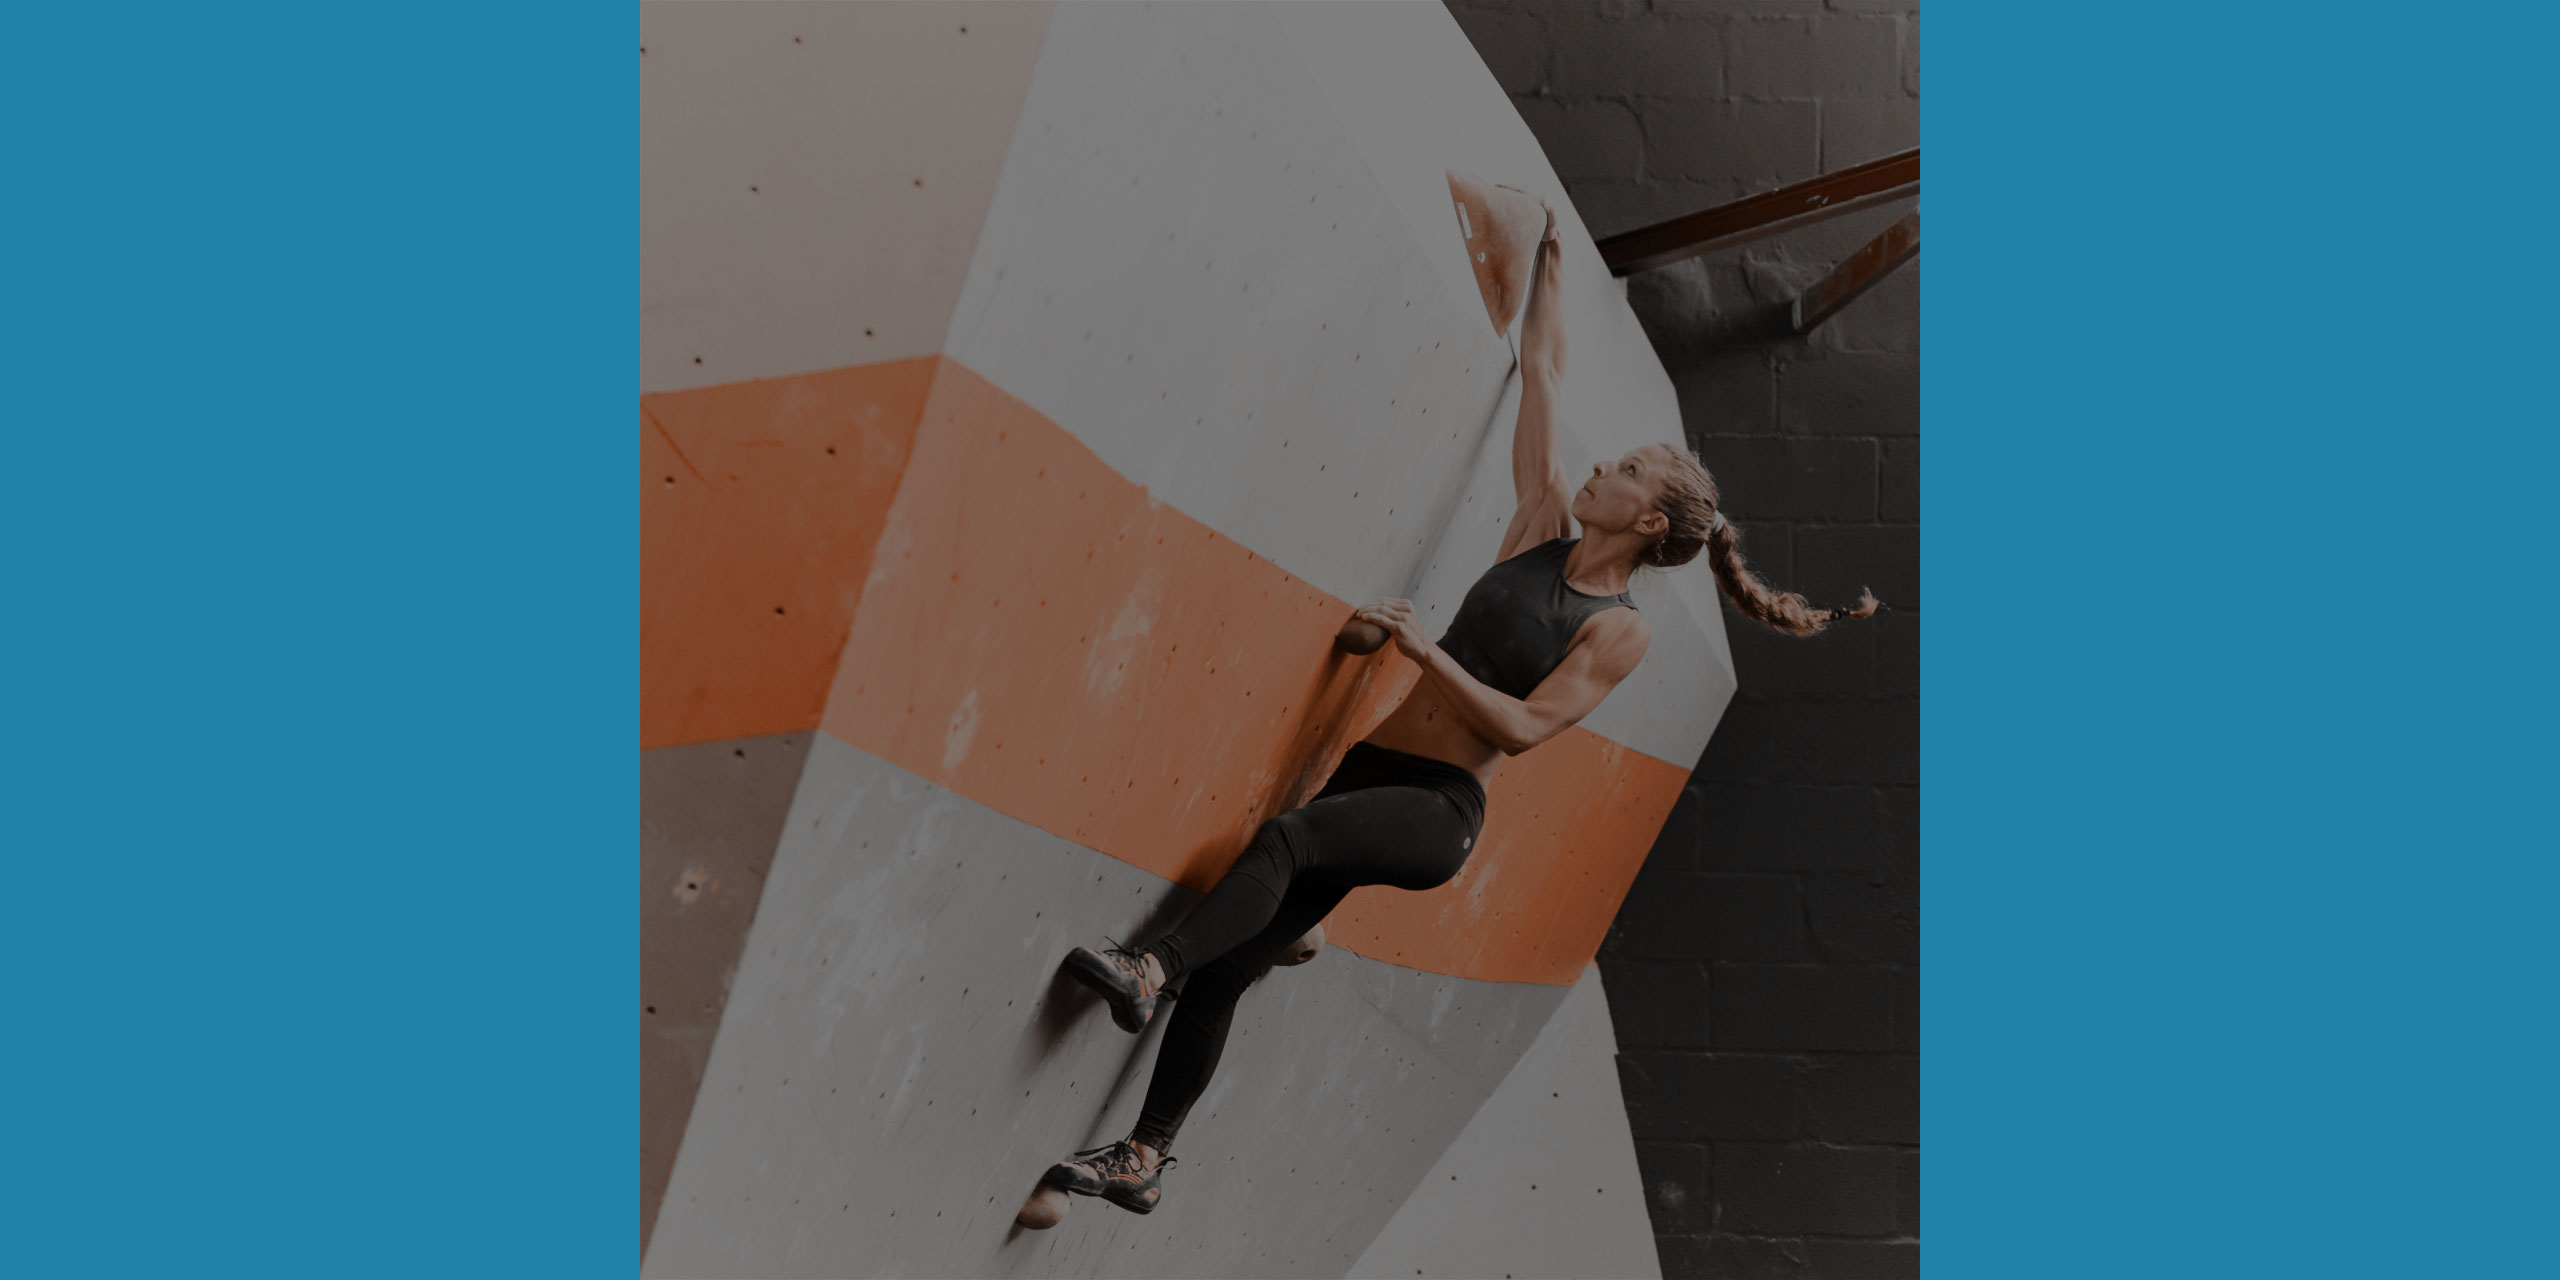
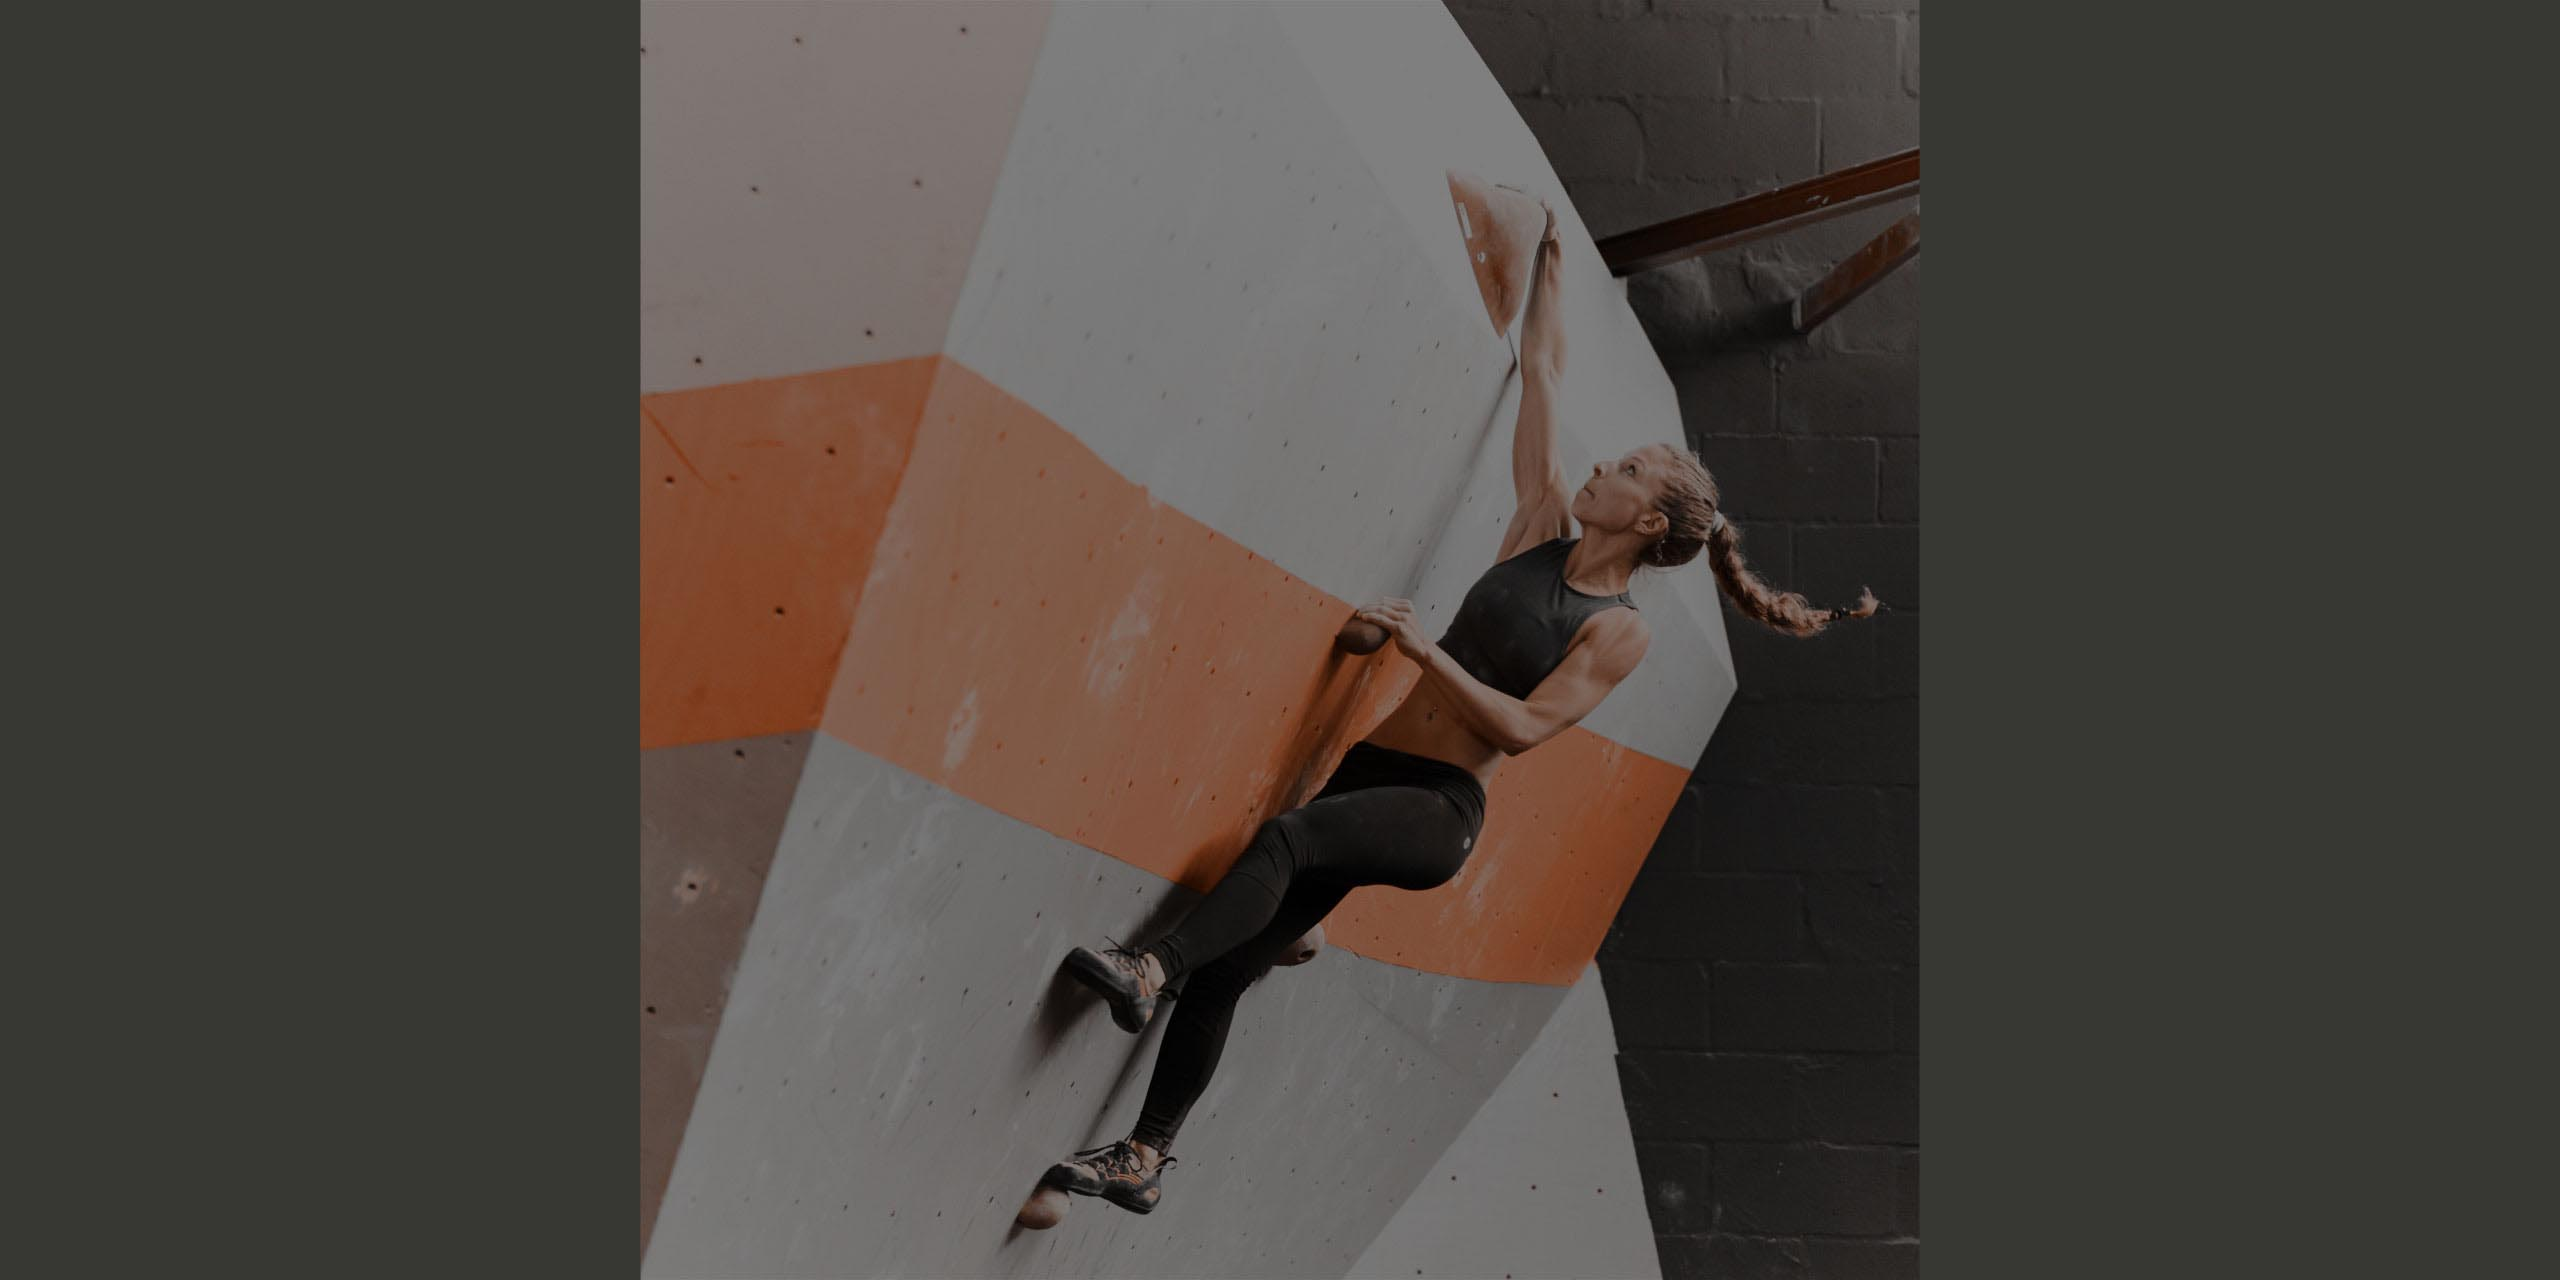
Modal fixes

diff --git a/index.html b/index.html
@@ -27,7 +27,7 @@
   <header class="main" id="header">
     <nav role="main">
       <ul>
-        <li><a href="#notice-board" class="js-btn">Specials</a></li>
+        <li><a href="#notice-board" class="js-btn">Home</a></li>
         <li><a href="#facilities" class="js-btn">Facilities</a></li>
         <li><a href="#hours" class="js-btn">Hours</a></li>
         <li><a href="#prices" class="js-btn">Prices</a></li>
@@ -106,7 +106,7 @@
         </div>
         <div class="col-6" id="yoga">
           <h3>Yoga and fitness</h3>
-          <button class="modal-open-btn" target-id="test-modal">open</button>
+          <button class="js-modal-open-btn" target-modal-id="yoga-modal">open</button>
           <p>
             Lorem ipsum dolor sit amet, consectetur adipiscing elit, sed do eiusmod tempor incididunt ut
             labore et dolore magna aliqua. Ut enim ad minim veniam, quis nostrud exercitation ullamco
@@ -307,9 +307,9 @@
 
     <!-- Modals -->
 
-    <div class="modal closed" id="test-modal">
+    <div class="modal closed" id="yoga-modal">
       <div class="modal-content">
-        <button class="close-btn">&#9932</button>
+        <button class="close-btn js-close-btn">&#9932</button>
         <div class="modal-header">
           <h5>Modal</h5>
         </div>

diff --git a/js/site.js b/js/site.js
@@ -4,11 +4,11 @@
 (function () {
 
   // add event to each openModal button
-  var openModalBtns = document.getElementsByClassName('modal-open-btn');
+  var openModalBtns = document.getElementsByClassName('js-modal-open-btn');
   for (var i = 0; i < openModalBtns.length; ++i) {
     openModalBtns[i].addEventListener('click', function (e) {
       // find the modal the button is pointing to and stop hiding the modal
-      var targetId = e.target.getAttribute('target-id');
+      var targetId = e.target.getAttribute('target-modal-id');
       var target = document.getElementById(targetId);
       target.classList.remove('closed');
     });
@@ -23,7 +23,7 @@
   }
 
   // add even to close buttons
-  var modalCloseBtns = document.getElementsByClassName('close-btn');
+  var modalCloseBtns = document.getElementsByClassName('js-close-btn');
   for (var i = 0; i < modalCloseBtns.length; ++i) {
     modalCloseBtns[i].addEventListener('click', function (e) {
       // will close all modals

diff --git a/styles.css b/styles.css
@@ -372,7 +372,7 @@ template {
   height: 100vh;
   overflow: hidden;
   z-index: 1000;
-  background-color: rgba(0, 255, 98, 0.678); }
+  background-color: rgba(0, 0, 0, 0.6); }
   .modal .modal-content {
     position: relative;
     display: flex;
@@ -785,6 +785,7 @@ nav[role=main] {
   width: 100%;
   margin: 0 auto;
   height: 100vh;
+  background-color: #373734;
   background-repeat: no-repeat;
   background-position: center;
   background-size: cover;

diff --git a/sass/styles.scss b/sass/styles.scss
@@ -148,7 +148,7 @@ nav[role=main] {
   width: 100%;
   margin: 0 auto;
   height: 100vh;
-  //background-color: $color-orange;
+  background-color: $color-grey;
   //background-image: url(/images/pattern-bg.svg);
   //background-image: url(/img/hero-1-1280x1280x50.jpg);
   background-repeat: no-repeat;

diff --git a/sass/_layout-modal.scss b/sass/_layout-modal.scss
@@ -14,8 +14,8 @@
     z-index: 1000;
 
     //style
-    background-color: rgba(0, 255, 98, 0.678);
-
+    background-color: rgba(0, 0, 0, 0.6);
+    
     .modal-content{
         position: relative;
 		display: flex;
